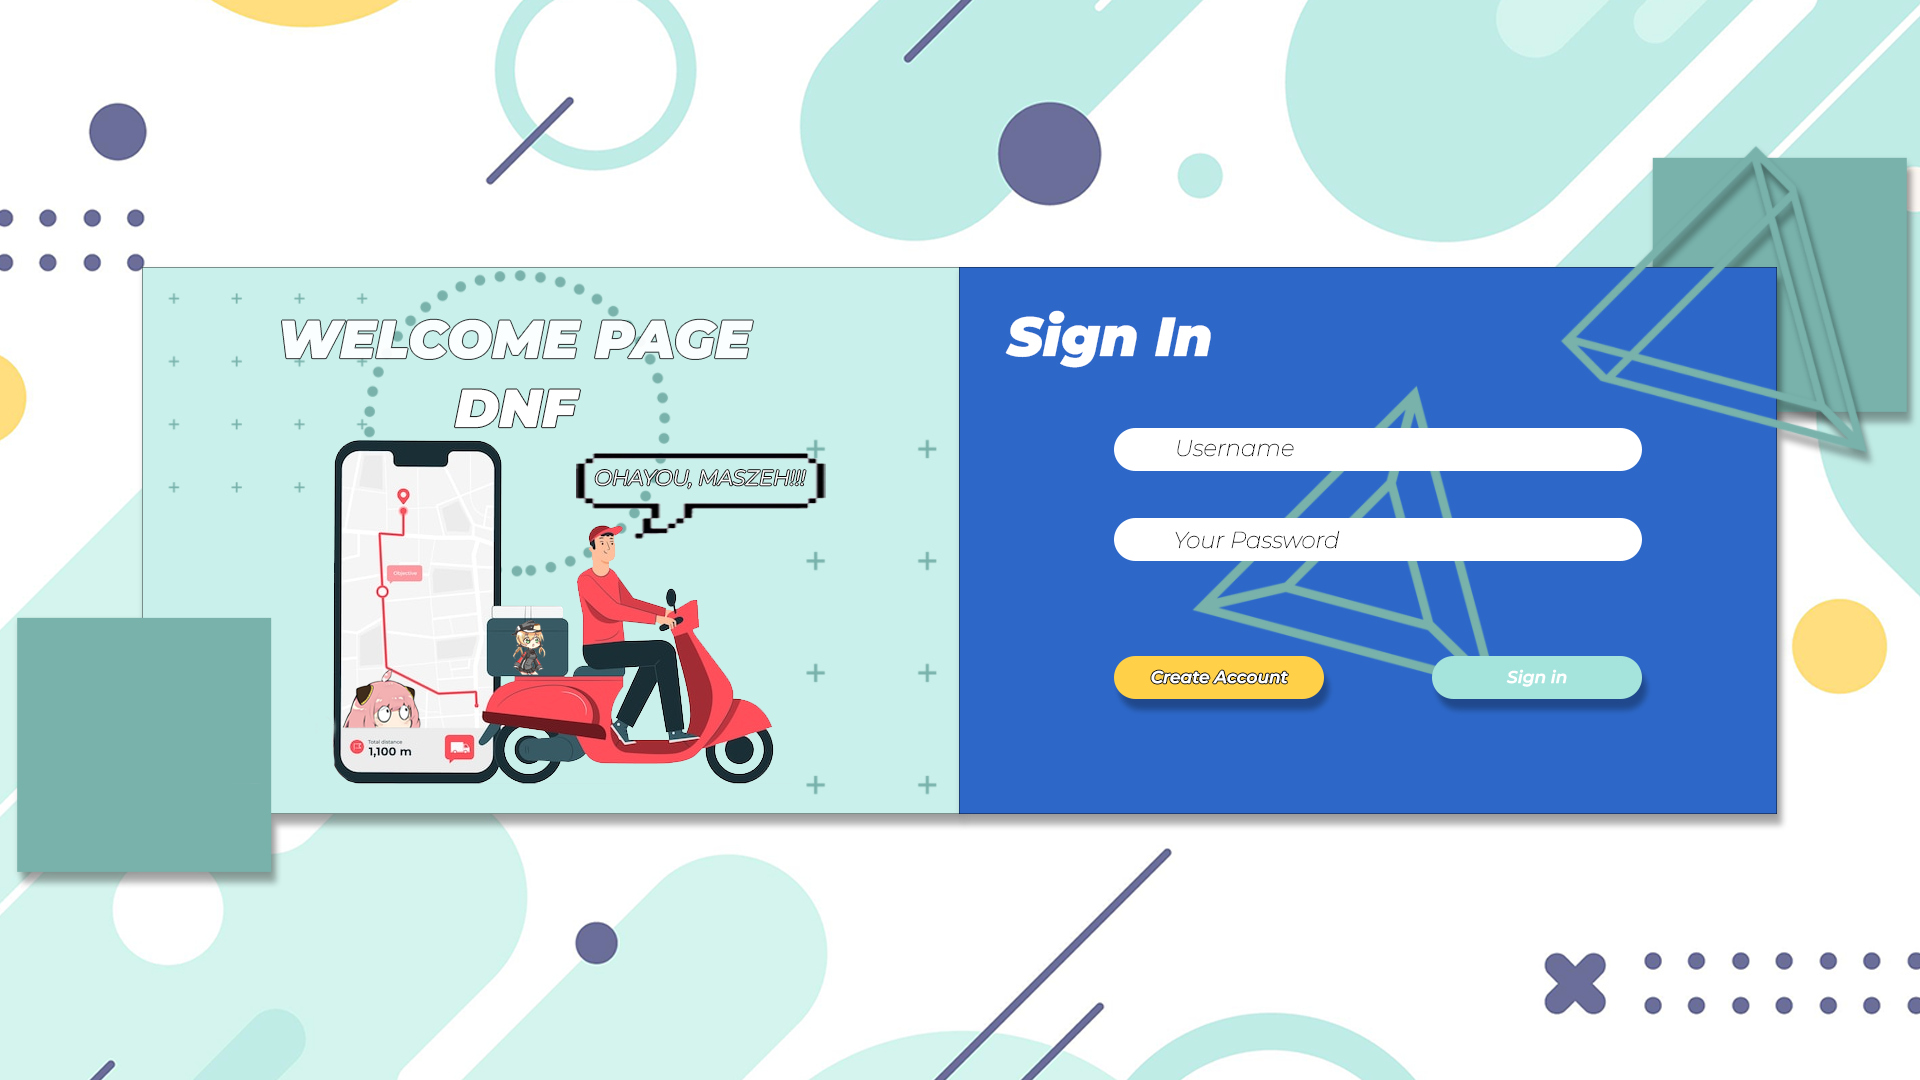
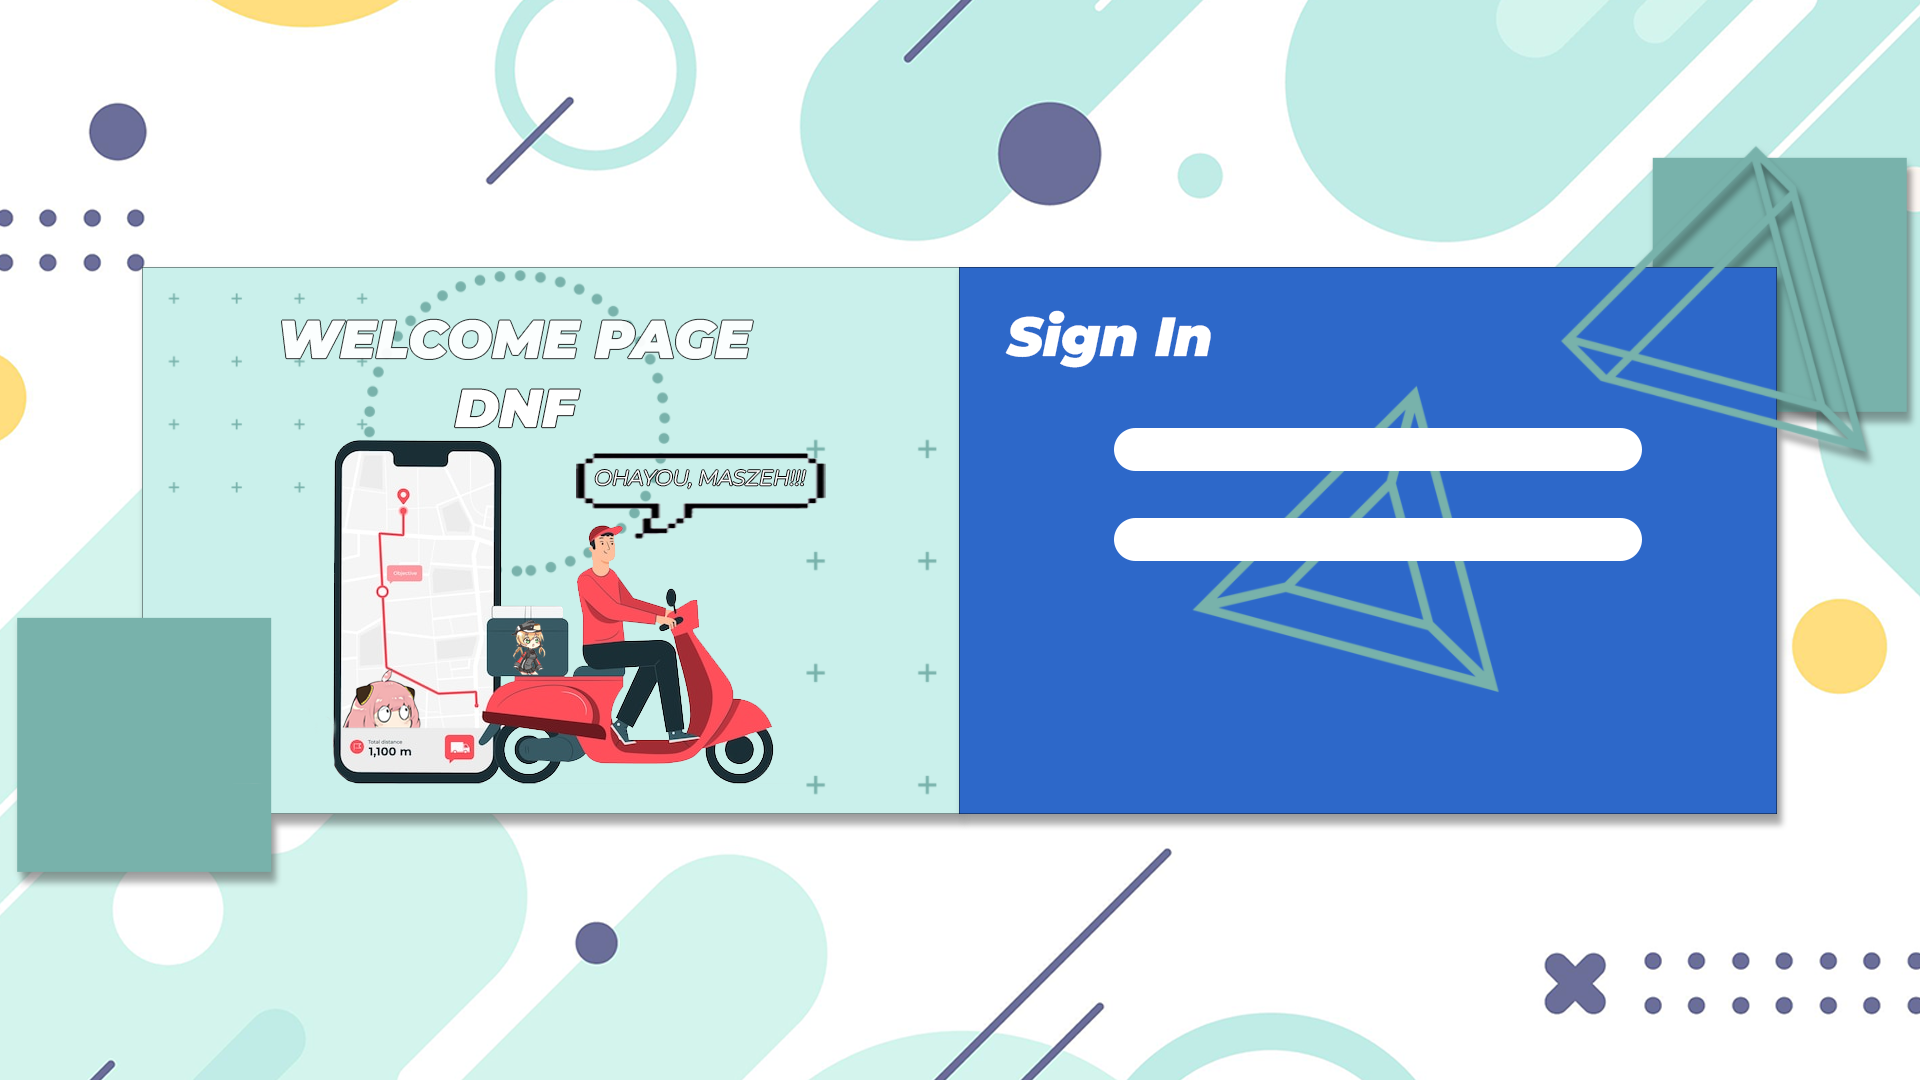
Added new Asset, added new Username Text Field, added new Password Field
Added Assets:
1. Create_Acc_Icon.png
2. Signin_icon.png

Replaced Asset:
Login.png with new Login.png
Sign in and Create Account JButton with new JButtons with new Assets.

Notes:
Need to add placeholder text for password and username field.

diff --git a/DNFApp/src/dnfapp/LoginMenu.java b/DNFApp/src/dnfapp/LoginMenu.java
@@ -28,6 +28,8 @@ public class LoginMenu extends javax.swing.JFrame {
 
         jPasswordField1 = new javax.swing.JPasswordField();
         jTextField1 = new javax.swing.JTextField();
+        CreateAccButton = new javax.swing.JButton();
+        SignInButton = new javax.swing.JButton();
         jLabel1 = new javax.swing.JLabel();
 
         setDefaultCloseOperation(javax.swing.WindowConstants.EXIT_ON_CLOSE);
@@ -35,15 +37,40 @@ public class LoginMenu extends javax.swing.JFrame {
 
         jPasswordField1.setBackground(new java.awt.Color(255, 255, 255));
         jPasswordField1.setForeground(new java.awt.Color(0, 0, 0));
-        jPasswordField1.setText("Your Password");
         jPasswordField1.setBorder(null);
+        jPasswordField1.addActionListener(new java.awt.event.ActionListener() {
+            public void actionPerformed(java.awt.event.ActionEvent evt) {
+                jPasswordField1ActionPerformed(evt);
+            }
+        });
         getContentPane().add(jPasswordField1, new org.netbeans.lib.awtextra.AbsoluteConstraints(1160, 530, 420, 30));
 
         jTextField1.setBackground(new java.awt.Color(255, 255, 255));
         jTextField1.setForeground(new java.awt.Color(0, 0, 0));
-        jTextField1.setText("jTextField1");
+        jTextField1.setText("Username");
         jTextField1.setBorder(null);
+        jTextField1.addActionListener(new java.awt.event.ActionListener() {
+            public void actionPerformed(java.awt.event.ActionEvent evt) {
+                jTextField1ActionPerformed(evt);
+            }
+        });
         getContentPane().add(jTextField1, new org.netbeans.lib.awtextra.AbsoluteConstraints(1160, 440, 440, 30));
+
+        CreateAccButton.setBackground(new java.awt.Color(30, 105, 255));
+        CreateAccButton.setForeground(new java.awt.Color(30, 120, 152));
+        CreateAccButton.setIcon(new javax.swing.ImageIcon(getClass().getResource("/images/Create_Acc_Icon.png"))); // NOI18N
+        CreateAccButton.setBorder(null);
+        CreateAccButton.addActionListener(new java.awt.event.ActionListener() {
+            public void actionPerformed(java.awt.event.ActionEvent evt) {
+                CreateAccButtonActionPerformed(evt);
+            }
+        });
+        getContentPane().add(CreateAccButton, new org.netbeans.lib.awtextra.AbsoluteConstraints(1130, 710, 240, 70));
+
+        SignInButton.setBackground(new java.awt.Color(30, 105, 255));
+        SignInButton.setIcon(new javax.swing.ImageIcon(getClass().getResource("/images/Signin_icon.png"))); // NOI18N
+        SignInButton.setBorder(null);
+        getContentPane().add(SignInButton, new org.netbeans.lib.awtextra.AbsoluteConstraints(1390, 700, 230, 90));
 
         jLabel1.setIcon(new javax.swing.ImageIcon(getClass().getResource("/images/Login.png"))); // NOI18N
         jLabel1.setText("jLabel1");
@@ -51,6 +78,18 @@ public class LoginMenu extends javax.swing.JFrame {
 
         pack();
     }// </editor-fold>//GEN-END:initComponents
+
+    private void CreateAccButtonActionPerformed(java.awt.event.ActionEvent evt) {//GEN-FIRST:event_CreateAccButtonActionPerformed
+        // TODO add your handling code here:
+    }//GEN-LAST:event_CreateAccButtonActionPerformed
+
+    private void jTextField1ActionPerformed(java.awt.event.ActionEvent evt) {//GEN-FIRST:event_jTextField1ActionPerformed
+        // TODO add your handling code here:
+    }//GEN-LAST:event_jTextField1ActionPerformed
+
+    private void jPasswordField1ActionPerformed(java.awt.event.ActionEvent evt) {//GEN-FIRST:event_jPasswordField1ActionPerformed
+        // TODO add your handling code here:
+    }//GEN-LAST:event_jPasswordField1ActionPerformed
 
     /**
      * @param args the command line arguments
@@ -88,6 +127,8 @@ public class LoginMenu extends javax.swing.JFrame {
     }
 
     // Variables declaration - do not modify//GEN-BEGIN:variables
+    private javax.swing.JButton CreateAccButton;
+    private javax.swing.JButton SignInButton;
     private javax.swing.JLabel jLabel1;
     private javax.swing.JPasswordField jPasswordField1;
     private javax.swing.JTextField jTextField1;
